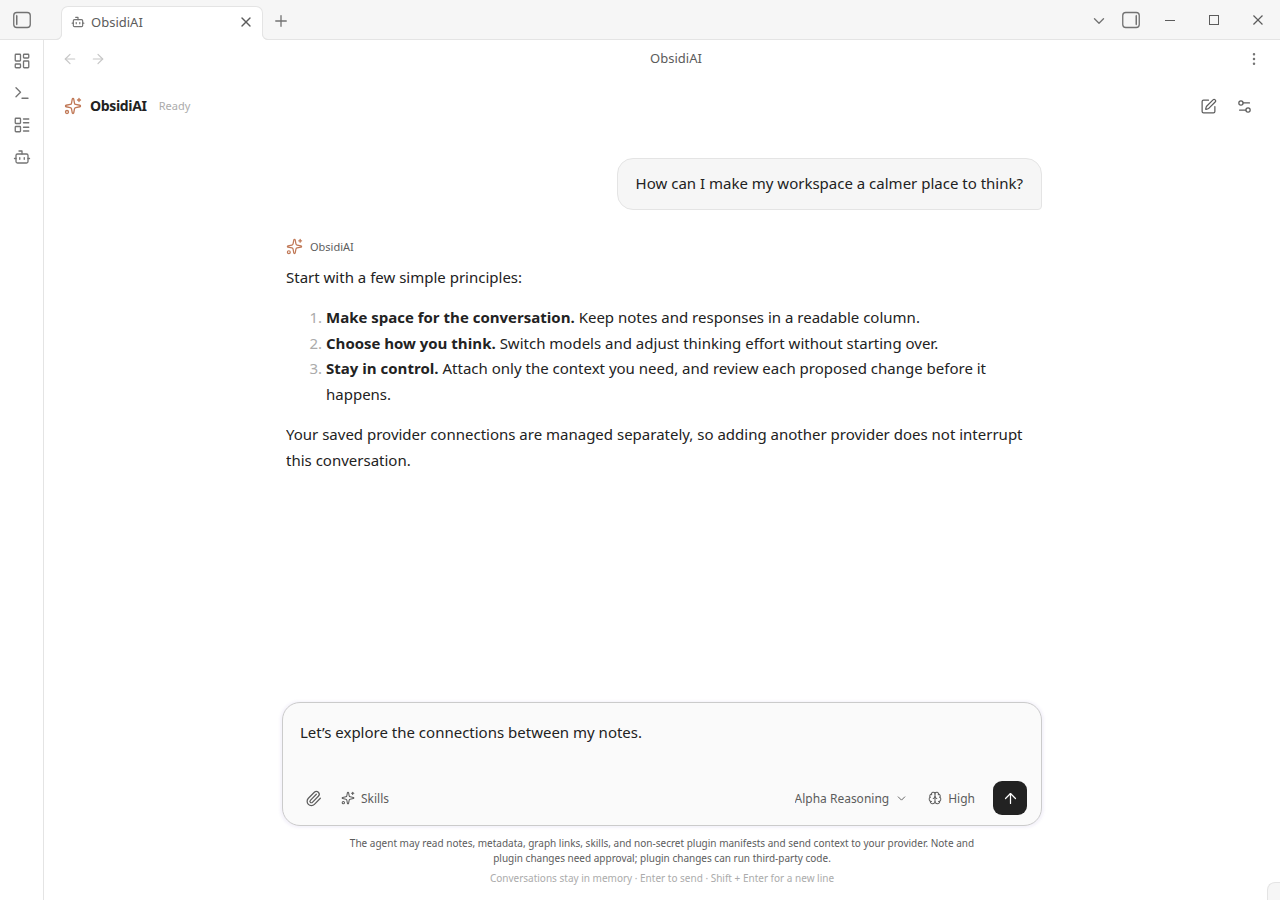
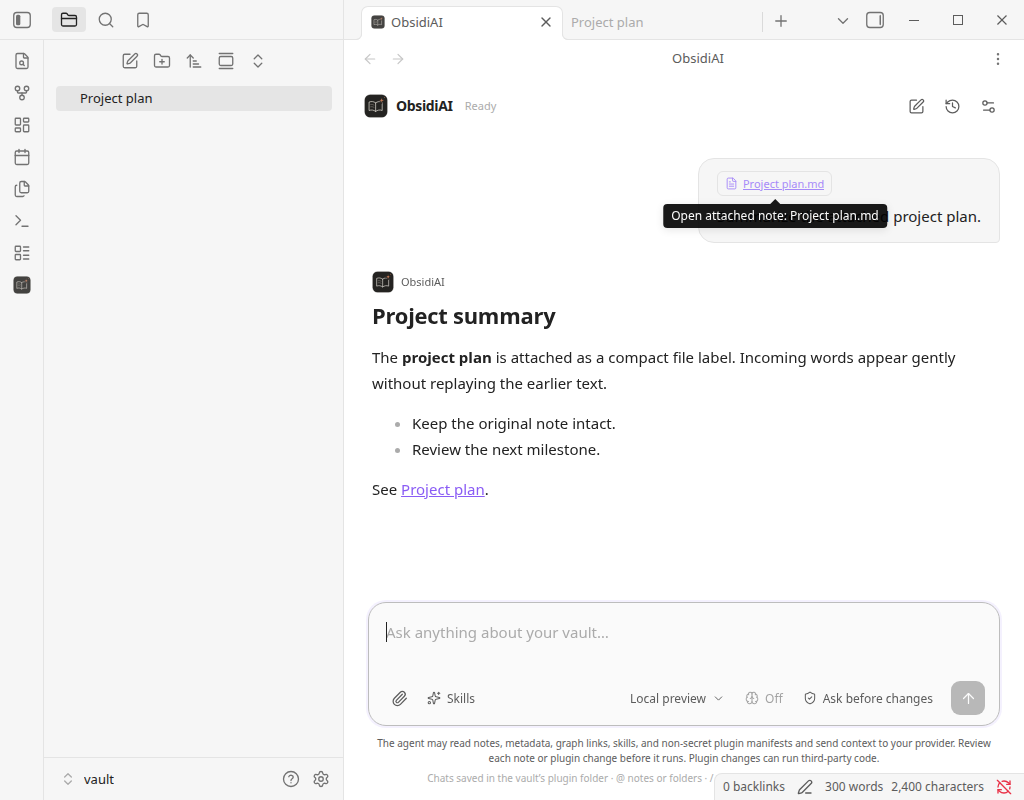
Release 0.1.3: streaming animation, branding, and compact attachments

diff --git a/src/ui/agent-view.ts b/src/ui/agent-view.ts
@@ -43,6 +43,8 @@ interface RenderedMessage {
  status?: HTMLElement;
  context?: HTMLElement;
  notice?: HTMLElement;
+ tail?: HTMLElement;
+ tailText?: string;
 }
 const TOOL_PRESENTATION: Record<string, { label: string; icon: string }> = {
  search_notes: { label: "Searching notes", icon: "search" },
@@ -111,7 +113,7 @@ export class AgentView extends ItemView {
  constructor(leaf: WorkspaceLeaf, private readonly host: AgentViewHost) { super(leaf); }
  getViewType(): string { return AGENT_VIEW_TYPE; }
  getDisplayText(): string { return "ObsidiAI"; }
- getIcon(): string { return "bot"; }
+ getIcon(): string { return "obsidiai-logo"; }
 
  private iconButton(container: HTMLElement, label: string, icon: string, action: () => void): ButtonComponent {
   const button = new ButtonComponent(container).setIcon(icon).setTooltip(label).onClick(action);
@@ -127,7 +129,7 @@ export class AgentView extends ItemView {
   this.contentEl.addClass("obsidiai-agent");
   const header = this.contentEl.createDiv({ cls: "obsidiai-header" });
   const brand = header.createDiv({ cls: "obsidiai-brand" });
-  setIcon(brand.createSpan({ cls: "obsidiai-brand-mark", attr: { "aria-hidden": "true" } }), "sparkles");
+  setIcon(brand.createSpan({ cls: "obsidiai-brand-mark", attr: { "aria-hidden": "true" } }), "obsidiai-logo");
   brand.createSpan({ text: "ObsidiAI" });
   this.statusEl = header.createSpan({ cls: "obsidiai-status", attr: { role: "status", "aria-live": "polite" } });
   const headerActions = header.createDiv({ cls: "obsidiai-header-actions" });
@@ -149,7 +151,7 @@ export class AgentView extends ItemView {
   this.iconButton(headerActions, "Settings", "settings-2", () => new ConnectionSettingsModal(this.app, this.host).open());
   if (!controller) {
    const unavailable = this.contentEl.createDiv({ cls: "obsidiai-unavailable" });
-   setIcon(unavailable.createDiv({ cls: "obsidiai-hero-mark", attr: { "aria-hidden": "true" } }), "sparkles");
+   setIcon(unavailable.createDiv({ cls: "obsidiai-hero-mark", attr: { "aria-hidden": "true" } }), "obsidiai-logo");
    unavailable.createEl("h2", { text: "A little setup first." });
    unavailable.createEl("p", { text: this.host.disabledReason || "Agent initialization is unavailable." });
    new ButtonComponent(unavailable).setButtonText("Open settings").onClick(() => new ConnectionSettingsModal(this.app, this.host).open());
@@ -159,7 +161,7 @@ export class AgentView extends ItemView {
   const stage = this.contentEl.createDiv({ cls: "obsidiai-stage" });
   this.scrollEl = stage.createDiv({ cls: "obsidiai-scroll" });
   this.emptyEl = this.scrollEl.createDiv({ cls: "obsidiai-welcome" });
-  setIcon(this.emptyEl.createDiv({ cls: "obsidiai-hero-mark", attr: { "aria-hidden": "true" } }), "sparkles");
+  setIcon(this.emptyEl.createDiv({ cls: "obsidiai-hero-mark", attr: { "aria-hidden": "true" } }), "obsidiai-logo");
   this.emptyEl.createEl("h1", { text: "What’s on your mind?" });
   this.emptyEl.createEl("p", { cls: "obsidiai-welcome-copy", text: "A place to think with your notes." });
   const suggestions = this.emptyEl.createDiv({ cls: "obsidiai-suggestions" });
@@ -497,8 +499,23 @@ export class AgentView extends ItemView {
     notice = title.createSpan({ cls: "obsidiai-tool-notice" }); notice.hidden = true;
    } else if (item.kind === "assistant") {
     const author = el.createDiv({ cls: "obsidiai-author" });
-    setIcon(author.createSpan({ attr: { "aria-hidden": "true" } }), "sparkles");
+    setIcon(author.createSpan({ cls: "obsidiai-assistant-logo", attr: { "aria-hidden": "true" } }), "obsidiai-logo");
     author.createSpan({ text: "ObsidiAI" });
+   }
+   if (item.kind === "user" && (item.attachmentPaths?.length || item.skillNames?.length)) {
+    const attachments = el.createDiv({ cls: "obsidiai-sent-context", attr: { "aria-label": "Attached context" } });
+    for (const path of item.attachmentPaths ?? []) {
+     try { validateVaultPath(path, this.app.vault.configDir); } catch { continue; }
+     const link = attachments.createEl("a", { cls: "internal-link obsidiai-sent-attachment", href: path, attr: { "aria-label": `Open attached note: ${path}`, title: path } });
+     setIcon(link.createSpan({ attr: { "aria-hidden": "true" } }), "file-text");
+     link.createSpan({ text: path });
+     link.addEventListener("click", event => { event.preventDefault(); void this.app.workspace.openLinkText(path, ""); });
+    }
+    for (const name of item.skillNames ?? []) {
+     const skill = attachments.createSpan({ cls: "obsidiai-sent-attachment" });
+     setIcon(skill.createSpan({ attr: { "aria-hidden": "true" } }), "sparkles");
+     skill.createSpan({ text: name });
+    }
    }
    const body = el.createDiv({ cls: item.kind === "tool" ? "obsidiai-tool-body" : "obsidiai-message-body" });
    const text = el.doc.createTextNode(""); body.appendChild(text);
@@ -522,17 +539,34 @@ export class AgentView extends ItemView {
    }
   }
   if (rendered.complete) return;
-  if (item.text.startsWith(rendered.last)) rendered.text.appendData(item.text.slice(rendered.last.length)); else rendered.text.data = item.text;
+  if (rendered.last !== item.text) {
+   const append = item.text.startsWith(rendered.last);
+   if (rendered.tail) {
+    if (append) rendered.text.appendData(rendered.tailText ?? "");
+    rendered.tail.remove(); rendered.tail = undefined; rendered.tailText = undefined;
+   }
+   if (item.kind === "assistant" && !item.complete && append) {
+    const delta = item.text.slice(rendered.last.length);
+    rendered.tail = rendered.body.createSpan({ cls: "obsidiai-stream-reveal", text: delta });
+    rendered.tailText = delta;
+   } else if (append) rendered.text.appendData(item.text.slice(rendered.last.length));
+   else rendered.text.data = item.text;
+  }
   rendered.last = item.text;
   rendered.el.setAttr("data-streaming", String(!item.complete));
+  if (!item.complete) rendered.el.setAttr("data-live-response", "true");
   if (!item.complete) return;
   rendered.complete = true;
   if (item.kind === "assistant") {
    rendered.el.hidden = !item.text;
+   rendered.tail = undefined; rendered.tailText = undefined;
    rendered.body.empty(); rendered.body.addClass("obsidiai-prose");
    const component = new Component(); this.addChild(component); rendered.component = component;
    const record = rendered;
    void MarkdownRenderer.render(this.app, item.text, rendered.body, item.sourcePath, component).then(() => {
+    if (this.closed || this.rendered.get(item.id) !== record) return;
+    // Fade the final Markdown only for a live response, never replay saved history.
+    if (record.last && record.el.dataset.liveResponse === "true" && !item.status) record.body.addClass("obsidiai-result-reveal");
     if (this.rendered.get(item.id) === record && this.followLatest) this.scrollToLatest();
    }).catch(() => { if (!this.closed && this.rendered.get(item.id) === record) record.body.setText(item.text); });
   }

diff --git a/styles.css b/styles.css
@@ -17,7 +17,7 @@
 .obsidiai-header { display: flex; align-items: center; gap: 12px; min-height: 56px; padding: 10px 20px; flex-shrink: 0; }
 .obsidiai-brand { display: flex; align-items: center; gap: 8px; font-size: 14px; font-weight: 600; letter-spacing: -.025em; }
 .obsidiai-brand-mark { display: flex; color: var(--obsidiai-accent); }
-.obsidiai-brand-mark svg { width: 18px; height: 18px; }
+.obsidiai-brand-mark svg { width: 24px; height: 24px; }
 .obsidiai-header-actions { display: flex; gap: 4px; margin-left: auto; }
 .obsidiai-status { color: var(--text-faint); font-size: 11px; white-space: nowrap; }
 .obsidiai-status[data-state="awaiting-approval"] { color: var(--text-warning); }
@@ -35,7 +35,7 @@
 .obsidiai-agent[data-empty="true"] .obsidiai-scroll { flex: 0 1 auto; }
 .obsidiai-welcome { width: min(100% - 48px, var(--obsidiai-column)); margin: 0 auto; padding: 28px 0 24px; text-align: center; }
 .obsidiai-hero-mark { display: flex; justify-content: center; margin-bottom: 18px; color: var(--obsidiai-accent); }
-.obsidiai-hero-mark svg { width: 38px; height: 38px; stroke-width: 1.5; }
+.obsidiai-hero-mark svg { width: 56px; height: 56px; }
 .obsidiai-welcome h1, .obsidiai-unavailable h2 { margin: 0; font-family: Georgia, "Times New Roman", serif; font-size: clamp(28px, 4.5cqi, 42px); font-weight: 400; line-height: 1.2; letter-spacing: -.035em; }
 .obsidiai-welcome-copy { margin: 12px 0 28px; font-size: 14px; line-height: 1.5; color: var(--text-muted); }
 .obsidiai-suggestions { display: grid; grid-template-columns: repeat(3, minmax(0, 1fr)); gap: 10px; text-align: left; }
@@ -87,11 +87,17 @@
 .obsidiai-message:last-child { margin-bottom: 0; }
 .obsidiai-message-body { white-space: pre-wrap; }
 .obsidiai-user { width: fit-content; max-width: 86%; margin-left: auto; padding: 12px 18px; border: 1px solid var(--background-modifier-border); border-radius: 16px 16px 4px 16px; background: var(--background-secondary); }
+.obsidiai-sent-context { display: flex; flex-wrap: wrap; gap: 6px; margin-bottom: 8px; }
+.obsidiai-sent-attachment { display: inline-flex; align-items: center; gap: 5px; max-width: 100%; padding: 4px 7px; border: 1px solid var(--background-modifier-border); border-radius: 6px; color: var(--text-muted); font-size: 11px; line-height: 1.4; text-decoration: none; }
+.obsidiai-sent-attachment > span:first-child { display: flex; flex-shrink: 0; }
+.obsidiai-sent-attachment > span:last-child { overflow: hidden; text-overflow: ellipsis; white-space: nowrap; }
+.obsidiai-sent-attachment svg { width: 13px; height: 13px; }
 .obsidiai-author { display: flex; align-items: center; gap: 7px; margin-bottom: 10px; color: var(--text-muted); font-size: 11px; font-weight: 500; line-height: 1.4; }
 .obsidiai-author > span:first-child { display: flex; color: var(--obsidiai-accent); }
-.obsidiai-author svg { width: 17px; height: 17px; }
+.obsidiai-author svg { width: 22px; height: 22px; }
 .obsidiai-assistant { padding: 0 4px; }
-.obsidiai-assistant[data-streaming="true"] .obsidiai-message-body:empty::after { content: "Thinking…"; color: var(--text-faint); font-size: 13px; }
+.obsidiai-assistant[data-streaming="true"] .obsidiai-message-body:empty::after { content: "Thinking…"; color: var(--text-muted); font-size: 13px; animation: obsidiai-thinking 1.6s ease-in-out infinite; }
+.obsidiai-assistant[data-streaming="true"] .obsidiai-assistant-logo { animation: obsidiai-thinking 1.6s ease-in-out infinite; }
 .obsidiai-prose { white-space: normal; }
 .obsidiai-prose > :first-child { margin-top: 0; }
 .obsidiai-prose > :last-child { margin-bottom: 0; }
@@ -176,6 +182,11 @@
 .obsidiai-message, .obsidiai-chip { animation: obsidiai-enter 160ms ease-out both; }
 .obsidiai-agent button, .obsidiai-tool-summary, .obsidiai-tool-status, .obsidiai-status { transition: background-color 120ms ease, border-color 120ms ease, color 120ms ease; }
 .obsidiai-tool-chevron { transition: transform 140ms ease; }
+@keyframes obsidiai-thinking { 0%, 100% { opacity: .5; } 50% { opacity: 1; } }
+@keyframes obsidiai-stream-reveal { from { opacity: .35; filter: blur(1px); } to { opacity: 1; filter: blur(0); } }
+@keyframes obsidiai-result-reveal { from { opacity: .85; } to { opacity: 1; } }
+.obsidiai-stream-reveal { animation: obsidiai-stream-reveal 180ms ease-out both; }
+.obsidiai-result-reveal { animation: obsidiai-result-reveal 220ms ease-out; }
 @media (prefers-reduced-motion: reduce) {
  .obsidiai-agent *, .obsidiai-agent *::before, .obsidiai-agent *::after { animation: none !important; transition: none !important; scroll-behavior: auto !important; }
 }

diff --git a/src/agent/controller.ts b/src/agent/controller.ts
@@ -7,7 +7,7 @@ import { safeProviderError } from "./provider-errors";
 
 export type RunState = "idle" | "running" | "awaiting-approval" | "stopping";
 export interface Attachment { id: string; path: string; content: string; }
-export interface TimelineItem { id: string; kind: "user" | "assistant" | "tool" | "error"; text: string; complete: boolean; sourcePath: string; toolName?: string; status?: string; details?: unknown; }
+export interface TimelineItem { id: string; kind: "user" | "assistant" | "tool" | "error"; text: string; complete: boolean; sourcePath: string; attachmentPaths?: string[]; skillNames?: string[]; toolName?: string; status?: string; details?: unknown; }
 export interface ControllerServices {
  notes: { tools: AgentTool<any>[]; beginRun(): void; endRun(): void };
  metadata: { tools: AgentTool<any>[] };
@@ -38,6 +38,7 @@ export class AgentController {
  private disposed = false;
  private sourcePath = "";
  private streaming?: TimelineItem;
+ private submittedMessage?: Pick<TimelineItem, "text" | "attachmentPaths" | "skillNames">;
  private selected?: Model<Api>;
  private effectiveThinkingLevel: ModelThinkingLevel = "off";
  private supportedThinkingLevels: readonly ModelThinkingLevel[] = [];
@@ -145,9 +146,11 @@ export class AgentController {
   signal.throwIfAborted();
   for (const attachment of attachments) { const index = this.attachments.indexOf(attachment); if (index >= 0) this.attachments.splice(index, 1); }
   for (const name of names) this.selectedSkills.delete(name);
+  this.submittedMessage = { text, attachmentPaths: attachments.map(a => a.path), skillNames: [...names] };
   onSubmitted?.();
   try { await this.agent!.prompt(input); await this.agent!.waitForIdle(); }
   catch (error) { this.timeline.push({ id: crypto.randomUUID(), kind: "error", text: this.state === "stopping" ? "Stopped. Already applied changes are not undone." : safeProviderError(error), complete: true, sourcePath: this.sourcePath }); }
+  finally { this.submittedMessage = undefined; }
  }
  private createAgent(messages: Conversation["messages"] = []): void {
   this.unsubscribeAgent?.();
@@ -208,7 +211,9 @@ export class AgentController {
  }
  private onEvent(event: AgentEvent): void {
   if (event.type === "message_start" && event.message.role === "user") {
-   this.timeline.push({ id: crypto.randomUUID(), kind: "user", text: typeof event.message.content === "string" ? event.message.content : event.message.content.filter(c => c.type === "text").map(c => c.text).join("\n"), complete: true, sourcePath: this.sourcePath });
+   const display = this.submittedMessage;
+   this.submittedMessage = undefined;
+   this.timeline.push({ id: crypto.randomUUID(), kind: "user", ...(display ?? { text: typeof event.message.content === "string" ? event.message.content : event.message.content.filter(c => c.type === "text").map(c => c.text).join("\n") }), complete: true, sourcePath: this.sourcePath });
   }
   if (event.type === "message_start" && event.message.role === "assistant") {
    this.streaming = { id: crypto.randomUUID(), kind: "assistant", text: "", complete: false, sourcePath: this.sourcePath }; this.timeline.push(this.streaming);

diff --git a/tests/agent-controller.test.ts b/tests/agent-controller.test.ts
@@ -221,6 +221,36 @@ describe("real Agent conversation settlement", () => {
   await f.controller.reset(); expect(f.controller.timeline).toEqual([]);
   await f.controller.dispose();
  });
+ it("shows attachment labels while preserving model context across history reload", async () => {
+  let bytes = "";
+  const adapter = { async exists() { return !!bytes; }, async read() { return bytes; }, async write(_path: string, value: string) { bytes = value; } };
+  const history = new HistoryStore(adapter, "history.json");
+  const f = fixture({}, history); await f.configure();
+  f.controller.addAttachment("Projects/Alpha.md", "PRIVATE NOTE BODY");
+  f.controller.services.skills.selectedContext = async () => "PRIVATE SKILL BODY";
+  f.controller.selectSkill("review");
+  f.faux.setResponses([(context: Context) => {
+   expect(JSON.stringify(context.messages)).toContain("PRIVATE NOTE BODY");
+   expect(JSON.stringify(context.messages)).toContain("PRIVATE SKILL BODY");
+   return fauxAssistantMessage("Reviewed.");
+  }]);
+  await f.controller.send("Review the attached note.");
+  expect(f.controller.timeline.find(t => t.kind === "user")).toMatchObject({
+   text: "Review the attached note.", attachmentPaths: ["Projects/Alpha.md"], skillNames: ["review"],
+  });
+  expect(JSON.stringify(f.controller.timeline)).not.toMatch(/PRIVATE NOTE BODY|PRIVATE SKILL BODY/);
+  const [saved] = await history.list(); await f.controller.dispose();
+  const next = fixture({}, new HistoryStore(adapter, "history.json")); await next.configure();
+  await next.controller.openConversation(saved!.id);
+  expect(next.controller.timeline.find(t => t.kind === "user")).toMatchObject({ text: "Review the attached note.", attachmentPaths: ["Projects/Alpha.md"] });
+  next.faux.setResponses([(context: Context) => {
+   expect(JSON.stringify(context.messages)).toContain("PRIVATE NOTE BODY");
+   return fauxAssistantMessage("Remembered.");
+  }]);
+  await next.controller.send("Continue.");
+  expect(next.controller.timeline.filter(t => t.kind === "user").at(-1)).toMatchObject({ text: "Continue." });
+  await next.controller.dispose();
+ });
  it("surfaces assistant error stopReason without exposing upstream error bodies", async () => {
   const f = fixture(); await f.configure(); f.faux.setResponses([fauxAssistantMessage("", { stopReason: "error", errorMessage: "secret-token-upstream" })]);
   await f.controller.send("Hello");

diff --git a/src/main.ts b/src/main.ts
@@ -1,4 +1,4 @@
-import { Notice, Plugin, type WorkspaceLeaf } from "obsidian";
+import { addIcon, Notice, Plugin, type WorkspaceLeaf } from "obsidian";
 import { AgentView, AGENT_VIEW_TYPE, type AgentViewHost } from "./ui/agent-view";
 import { AuthModal } from "./ui/auth-modal";
 import { loadSettings, ObsidiAISettingTab, ConnectionSettingsModal, disposeProviderSettings, type ObsidiAISettings } from "./settings";
@@ -10,6 +10,7 @@ import type { MetadataService } from "./agent/metadata-tools";
 import type { PluginLifecycleService } from "./agent/plugin-tools";
 import type { ApprovalController } from "./ui/approval-modal";
 import { HistoryStore } from "./agent/history";
+import logoSvg from "../assets/obsidiai-logo.svg";
 
 export function supportedNode(version: string): boolean {
  const [major = 0, minor = 0, patch = 0] = version.split(".").map(Number);
@@ -30,6 +31,9 @@ export default class ObsidiAIPlugin extends Plugin implements AgentViewHost {
  private disposed = false;
  private readonly listeners = new Set<() => void>();
  async onload(): Promise<void> {
+  const logo = new DOMParser().parseFromString(logoSvg, "image/svg+xml").documentElement;
+  logo.querySelectorAll("title, desc").forEach(element => element.remove());
+  addIcon("obsidiai-logo", `<g transform="scale(0.78125)">${logo.innerHTML}</g>`);
   this.settings = loadSettings(await this.loadData());
   await this.saveSettings();
   const version = typeof process !== "undefined" ? process.versions?.node ?? "0" : "0";
@@ -60,7 +64,7 @@ export default class ObsidiAIPlugin extends Plugin implements AgentViewHost {
   }
   this.registerView(AGENT_VIEW_TYPE, leaf => new AgentView(leaf, this));
   this.addCommand({ id: "open-agent", name: "Open agent tab", callback: () => { void this.openAgent(); } });
-  this.addRibbonIcon("bot", "Open ObsidiAI agent", () => { void this.openAgent(); });
+  this.addRibbonIcon("obsidiai-logo", "Open ObsidiAI agent", () => { void this.openAgent(); });
   this.addSettingTab(new ObsidiAISettingTab(this.app, this, this));
   this.addCommand({ id: "choose-skill", name: "Choose skill", callback: () => { void this.openAgent().then(leaf => { if (leaf.view instanceof AgentView) void leaf.view.chooseSkill(); }); } });
   this.addCommand({ id: "ask-about-selection", name: "Ask agent about selection", editorCheckCallback: (checking, editor, view) => {

diff --git a/src/agent/history.ts b/src/agent/history.ts
@@ -38,6 +38,7 @@ export class HistoryStore implements ConversationHistory {
    if (!c || typeof c.id !== "string" || ids.has(c.id) || typeof c.title !== "string" || !Number.isFinite(c.createdAt) || !Number.isFinite(c.updatedAt) || typeof c.providerId !== "string" || typeof c.modelId !== "string" || !Array.isArray(c.messages) || !Array.isArray(c.timeline)) throw new Error("Invalid conversation");
    if (c.messages.some((m: Record<string, unknown>) => !m || !["user", "assistant", "toolResult"].includes(String(m.role)) || !(typeof m.content === "string" || Array.isArray(m.content)))) throw new Error("Invalid messages");
    if (c.timeline.some((t: Record<string, unknown>) => !t || typeof t.id !== "string" || !["user", "assistant", "tool", "error"].includes(String(t.kind)) || typeof t.text !== "string" || typeof t.sourcePath !== "string" || typeof t.complete !== "boolean")) throw new Error("Invalid timeline");
+   if (c.timeline.some((t: Record<string, unknown>) => [t.attachmentPaths, t.skillNames].some(value => value !== undefined && (!Array.isArray(value) || value.some(item => typeof item !== "string"))))) throw new Error("Invalid displayed context");
    ids.add(c.id);
   }
   return this.records = data.conversations;

diff --git a/src/assets.d.ts b/src/assets.d.ts
@@ -1,0 +1,4 @@
+declare module "*.svg" {
+ const markup: string;
+ export default markup;
+}

diff --git a/README.md b/README.md
@@ -17,9 +17,9 @@ Powered by [pi](https://github.com/earendil-works/pi), ObsidiAI runs inside the 
 
 > **Early preview · Desktop only.** Behavioral tests and isolated bundle checks cover the implementation. The native UI, permissions, quick context, and saved history have been checked in a disposable vault on Obsidian 1.13.7. A real NVIDIA request and cancellation were also verified there; successful OAuth login and actual native plugin-manager lifecycle effects remain unverified. Start in a disposable vault, not your only copy of important notes.
 
-![Native ObsidiAI chat in Obsidian's light theme, with model and thinking-effort controls in the composer](assets/chat-light.png)
+![Native ObsidiAI chat with the notebook logo, compact attached-file label, and completed Markdown response](assets/chat-light.png)
 
-*Actual Obsidian 1.13.7, in a disposable vault with local scripted providers and sample conversation content. No private notes or credentials are shown. Screenshots show the interface included in 0.1.1.*
+*Actual Obsidian 1.13.7, in a disposable vault with local scripted providers and sample conversation content. No private notes or credentials are shown. The chat screenshot shows 0.1.3; the unchanged provider-settings layout below was captured for 0.1.1.*
 
 ## From question to approved change
 
@@ -62,9 +62,10 @@ The source build uses a Claude-inspired arrangement with restrained, shadcn-styl
 - **Start in the center.** Suggested prompts fill the draft without sending it. Provider setup remains visible until a model is ready.
 - **Keep actions with the draft.** The paperclip, Skills picker, model selector, thinking-effort picker, permissions control, and Send/Stop controls sit inside the composer. Selected context appears as removable chips.
 - **Read without clutter.** User messages align right; assistant responses use a readable column capped at 760px. Expand a tool card for its result and note links. Errors expand automatically; code-execution warnings and partial-result notices remain visible when collapsed.
+- **Follow a live answer.** Incoming text gently fades into place while earlier text stays stable. The notebook logo and Thinking indicator pulse while streaming; completed Markdown has a brief transition. Reduced-motion preferences disable these effects.
 - **Use any pane width.** The layout adapts to narrow split panes and Obsidian's light/dark themes. Enter sends; Shift+Enter adds a line. Scrolling upward pauses automatic following; **Jump to latest** resumes it.
 
-**0.1.2** includes permissions, quick context suggestions, animations, persistent history, and the native networking fix, alongside the multi-provider login list and thinking-effort selector introduced in 0.1.1. Download the installable ZIP from the [latest release](https://github.com/KNN-07/ObsidiAI/releases/latest).
+**0.1.3** adds progressive response animations, the README notebook logo throughout the app, and compact sent-attachment labels. It includes the permissions, quick context suggestions, persistent history, and native networking fix from 0.1.2. Download the installable ZIP from the [latest release](https://github.com/KNN-07/ObsidiAI/releases/latest).
 
 ## Get started
 
@@ -134,6 +135,8 @@ Permission changes are locked during a run. New conversations reset to **Ask bef
 ### Quick context and skills
 
 Type `@` in the composer and filter by a note or folder path, including spaces and nested paths. Use the arrow keys and Enter, or click a result. Selecting a folder attaches snapshots of permitted Markdown notes in that folder and its descendants; non-Markdown and restricted paths are excluded. Duplicate attachments are skipped, and unreadable, moved, or oversized notes are reported. The attachment status shows the result. Remove individual draft chips before sending if you do not want to include them.
+
+After sending, your message shows the prompt plus compact file/skill labels, not the expanded context payload. Click a file label to open the note. The model still receives the attached snapshots, and saved model context still contains them; hiding the payload in the chat is a presentation change, not a privacy filter. Older saved transcripts retain their original display text.
 
 Type `/` at the start of a draft to choose a skill. Selection inserts `/skill:name `; add arguments and then send. It does not submit the prompt automatically. Escape dismisses suggestions; Shift+Enter inserts a newline.
 

diff --git a/AGENTS.md b/AGENTS.md
@@ -9,6 +9,7 @@ ObsidiAI is a desktop-only Obsidian plugin providing a native workspace AI-agent
 - `src/main.ts` is the composition/lifecycle root. It persists settings, checks embedded Node compatibility **before dynamically importing the agent runtime**, constructs services, and registers the native view, commands, and settings.
 - `src/agent/runtime.ts` is the single provider factory: pi's built-in model catalog, static OAuth/Bedrock registration, and SSE transport. `credentials.ts` serializes credential mutations into one plugin-owned Obsidian SecretStorage entry.
 - `src/agent/controller.ts` coordinates one real pi `Agent` and sequential tools. Draft attachments/selected skills become untrusted user context on Send; agent events become timeline items in `src/ui/agent-view.ts`. Run states are `idle`, `running`, `awaiting-approval`, and `stopping`.
+- User timeline text is the original submitted draft, with `attachmentPaths`/`skillNames` for compact labels. Keep expanded note/skill bodies only in model messages, not the displayed prompt. History persists both representations so resuming keeps context.
 - Thinking effort uses pi's `getSupportedThinkingLevels` and `clampThinkingLevel`. Settings persist the preferred level; the controller exposes the effective level for the selected model and applies it to the existing Agent without resetting the conversation.
 - Note/plugin services request decisions from the shared `ApprovalController`. Its session-only `PermissionMode` is `ask` by default, `read-only` rejects mutations, and `auto-approve-notes` bypasses only note dialogs. Controller guards changes while running and resets mode for new conversations. Modals return decisions only; services revalidate state and perform native mutations. Stop cancels pending decisions and waits for settlement; it is not rollback after a write/native operation starts.
 - Preferences alone go through serialized `saveSettings()`. `HistoryStore` serializes settled Agent messages and timeline to plugin-local `history.json`; summaries omit payloads, and reopen restores context using the current selected model. Credentials never belong in history, `data.json`, tool results, or logs. Unsent drafts and permission modes remain in memory. Provider errors are reduced to fixed safe status messages before display/persistence.
@@ -22,7 +23,7 @@ ObsidiAI is a desktop-only Obsidian plugin providing a native workspace AI-agent
 - `src/vault/`, `src/skills/`, `src/plugins/`: shared path policy, vault-local skill discovery, and isolated native plugin-manager/release boundaries.
 - `.github/workflows/`: shared CI and tag-triggered publication; `.github/release-notes/` holds reviewed per-version notes. `scripts/check-release.mjs` validates release metadata and built assets.
 - `tests/`: behavioral suites; `tests/fixtures/knowledge.ts` shares metadata/graph host doubles. Other fixtures are mostly suite-local.
-- `assets/`: README logo and screenshots captured in a disposable native Obsidian host. Preview providers and sample conversations are not remote-provider verification.
+- `assets/`: shared notebook logo and native README screenshots. The SVG is imported as text and registered as `obsidiai-logo`, bundled into main.js so installation still needs only three files. Preview providers and sample conversations are not remote-provider verification.
 
 ## Development Commands
 

diff --git a/.github/release-notes/0.1.3.md b/.github/release-notes/0.1.3.md
@@ -1,0 +1,27 @@
+## ObsidiAI 0.1.3
+
+### Improved chat presentation
+
+- Claude-inspired progressive text reveal: incoming chunks gently fade into place while earlier words remain stable. There is no artificial typing delay or whole-answer replay on each token.
+- A pulsing notebook logo and Thinking indicator while waiting/streaming, followed by a brief completed-Markdown transition. Stop ends the pulse; restored history does not replay the result transition. Reduced-motion preferences disable these effects.
+- The README notebook logo now appears in the app header, welcome/setup screen, assistant messages, workspace tab, and ribbon. It is bundled into the plugin; no extra installation asset is needed.
+
+### Fixed attachment display
+
+Newly sent messages show the original prompt plus compact file and skill labels instead of dumping the expanded note/skill context into the chat bubble. File labels open the attached note. The model still receives the complete attachment snapshot, and saved conversations retain that context for future requests. Labels survive history reload. Older saved transcripts retain their original display text.
+
+This changes presentation, not privacy: saved model messages can still contain sent note excerpts and skill instructions in the plugin's unencrypted `history.json`.
+
+### Install or update
+
+1. Download **[obsidiai-0.1.3.zip](https://github.com/KNN-07/ObsidiAI/releases/download/0.1.3/obsidiai-0.1.3.zip)**, not GitHub's automatic source archive.
+2. Replace `main.js`, `manifest.json`, and `styles.css` in `<vault>/.obsidian/plugins/obsidiai/`. Preserve `data.json` and `history.json` if present.
+3. Reload Obsidian or disable/re-enable ObsidiAI after the current run settles.
+
+Requirements remain **Obsidian desktop 1.11.4+** and **embedded Node 22.19.0+**. The three individual plugin files are also attached.
+
+### Verification
+
+- **114 tests** pass locally, including a regression that failed before the attachment-display fix and now verifies compact display plus intact model context across history reload.
+- Native Obsidian **1.13.7** checks covered actual streamed text integrity, bounded live text nodes, final Markdown, cancellation, reduced motion, README logo rendering, clickable attachment labels, restored history, light/dark themes, and narrow-pane layout.
+- Native animation checks used a local scripted provider, not a new remote-provider verification. Existing OAuth and native third-party plugin-manager verification limits remain unchanged.
